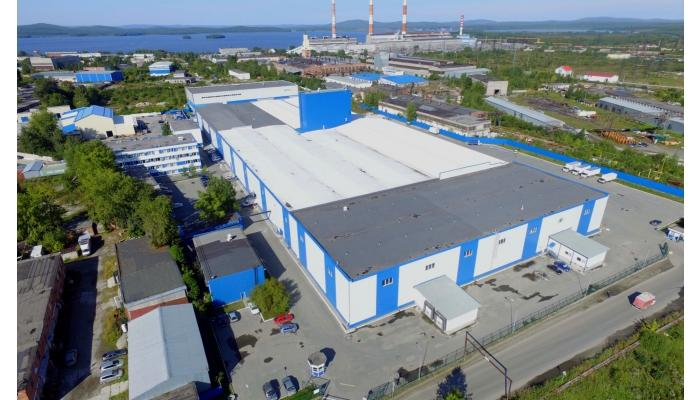
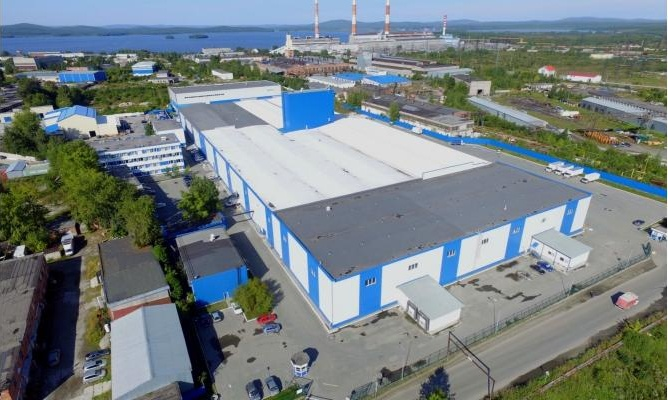
правки клиента: 7 слайдов по обратной связи
- слайд 2 (хронология): текст влево, силуэт в красном вправо
- слайд 3 (в цифрах): убран фон с фото irina-red-mic через rembg
- слайд 4 (экспертиза): фото 660→500px, текст получил больше места
- слайд 5 (компания): обрезаны белые боковые бордюры warehouse-aerial
- слайд 6 (треки): карточки 01+02 горизонтальные без фото; 03+04 без изменений
- слайд 9 (темы): убрано фото Ирины, текст на весь слайд
- слайд 12 (контакты): фото → irina-folder-profile, убран логотип-кнопка, телефон белый

diff --git a/mediakit.html b/mediakit.html
@@ -235,21 +235,7 @@ ul.w li::before{border-left-color:#fff}
 
 <!-- ═════════ 2 · ХРОНОЛОГИЯ ═════════ -->
 <div class="slide-frame"><div class="slide bg-l1" style="flex-direction:row">
-  <div style="position:relative;width:796px;flex-shrink:0;margin:64px 0 64px 64px">
-    <div class="photo" style="position:absolute;inset:0;border-radius:48px">
-      <img src="photos/irina-portrait-main.jpg" style="object-position:center 5%" alt="">
-    </div>
-    <div style="position:absolute;left:0;right:0;bottom:0;height:520px;border-radius:0 0 48px 48px;
-                background:linear-gradient(to top,var(--navy) 42%,rgba(19,35,61,0))"></div>
-    <div style="position:absolute;left:64px;right:40px;bottom:64px">
-      <div style="font-family:'Montserrat',sans-serif;font-weight:800;font-size:70px;line-height:1;color:#fff">Ирина<br>Лешукова</div>
-      <div style="font-size:30px;line-height:1.3;color:rgba(255,255,255,.85);margin-top:24px">
-        Исполнительный директор ТЛЦ «Северный»<br>Общественный деятель · Меценат
-      </div>
-    </div>
-  </div>
-
-  <div style="flex:1;min-width:0;display:flex;flex-direction:column;justify-content:center;padding:80px 110px 80px 80px">
+  <div style="flex:1;min-width:0;display:flex;flex-direction:column;justify-content:center;padding:80px 80px 80px 110px">
     <div class="h2" style="margin-bottom:56px">Хронология<br>профессиональной карьеры:</div>
     <ul class="tri" style="font-size:32px;display:flex;flex-direction:column;gap:36px">
       <li><strong>Исполнительный директор ТЛЦ «Северный»</strong> — мультитемпературный склад класса «А», первый в УрФО</li>
@@ -258,6 +244,9 @@ ul.w li::before{border-left-color:#fff}
       <li><strong>Спикер</strong> — ИННОПРОМ, СОЦИО Форум, 100+ TechnoBuild, форумы по социальной ответственности бизнеса</li>
       <li><strong>Награды</strong> — благодарственные письма от Губернатора Паслера, Главы ГО Среднеуральск, в/ч 34081 и 15+ иных структур</li>
     </ul>
+  </div>
+  <div style="width:700px;flex-shrink:0;position:relative;overflow:hidden">
+    <img src="photos/irina-red-mic-cutout.png" style="position:absolute;bottom:0;right:-10px;height:1080px;width:auto" alt="">
   </div>
 </div></div>
 
@@ -278,15 +267,15 @@ ul.w li::before{border-left-color:#fff}
       <div><div class="big-n">15+</div><div class="stat-lbl">наград и благодарственных писем</div></div>
     </div>
   </div>
-  <div class="photo" style="width:560px;flex-shrink:0;border-radius:48px;margin:64px 64px 64px 0">
-    <img src="photos/irina-red-mic.jpg" style="object-position:center 10%" alt="">
+  <div style="width:580px;flex-shrink:0;position:relative;overflow:hidden">
+    <img src="photos/irina-red-mic-cutout.png" style="position:absolute;bottom:0;right:-40px;height:1060px;width:auto" alt="">
   </div>
 </div></div>
 
 <!-- ═════════ 4 · ЭКСПЕРТИЗА ═════════ -->
 <div class="slide-frame"><div class="slide bg-l2">
-  <!-- Правая колонка: 2 фото 660×440, вертикально по центру слайда, right:64px -->
-  <div style="position:absolute;right:64px;top:88px;width:660px;display:flex;flex-direction:column;gap:24px">
+  <!-- Правая колонка: 2 фото 500×440, right:64px -->
+  <div style="position:absolute;right:64px;top:88px;width:500px;display:flex;flex-direction:column;gap:24px">
     <div style="height:440px;border-radius:40px;overflow:hidden">
       <img src="photos/innoprom-tribune.jpg" style="width:100%;height:100%;object-fit:cover;object-position:30% 30%" alt="">
     </div>
@@ -294,8 +283,8 @@ ul.w li::before{border-left-color:#fff}
       <img src="photos/socio-close.jpg" style="width:100%;height:100%;object-fit:cover;object-position:65% 25%" alt="">
     </div>
   </div>
-  <!-- Левая колонка: текст, left:124px до 64px от фото (padding-right:788px) -->
-  <div class="pad" style="padding-right:788px">
+  <!-- Левая колонка: текст, больше места -->
+  <div class="pad" style="padding-right:628px">
     <div class="h1">Экспертиза</div>
     <div style="flex:1;display:flex;flex-direction:column;justify-content:center;gap:40px;min-height:0">
       <div>
@@ -353,39 +342,36 @@ ul.w li::before{border-left-color:#fff}
 <div class="slide-frame"><div class="slide bg-l3">
   <div class="pad" style="padding-right:96px">
     <div class="h1" style="margin-bottom:44px">Социальные треки<br><span class="g">в компании</span></div>
-    <div style="flex:1;display:grid;grid-template-columns:1fr 1fr 1fr 1fr;gap:24px;min-height:0">
+    <div style="flex:1;display:flex;gap:24px;min-height:0">
 
-      <div class="tcard">
-        <div class="tcard-photo">
-          <img src="photos/socio-duo.jpg" style="object-position:center 35%" alt="">
+      <!-- Левый блок: две горизонтальные карточки без фото -->
+      <div style="flex:1;display:flex;flex-direction:column;gap:24px">
+        <div class="tcard" style="flex:1">
+          <div class="tcard-body" style="margin-top:0;border-radius:40px;display:flex;flex-direction:column;justify-content:center">
+            <div class="label" style="margin-bottom:14px">01 · Рождаемость</div>
+            <div class="h3" style="margin-bottom:18px">Поддержка в декрете</div>
+            <ul class="tri">
+              <li>Выплаты от компании все 3 года</li>
+              <li>По стажу, зарплате и заслугам</li>
+              <li>Независимо от государственных выплат</li>
+            </ul>
+          </div>
         </div>
-        <div class="tcard-body">
-          <div class="label">01 · Рождаемость</div>
-          <div class="h3">Поддержка в декрете</div>
-          <ul class="tri">
-            <li>Выплаты от компании все 3 года</li>
-            <li>По стажу, зарплате и заслугам</li>
-            <li>Независимо от государственных выплат</li>
-          </ul>
+        <div class="tcard" style="flex:1">
+          <div class="tcard-body" style="margin-top:0;border-radius:40px;display:flex;flex-direction:column;justify-content:center">
+            <div class="label" style="margin-bottom:14px">02 · Здоровье</div>
+            <div class="h3" style="margin-bottom:18px">Медстрахование в декрете</div>
+            <ul class="tri">
+              <li>Расширенный пакет: УЗИ и гинекология</li>
+              <li>На весь срок декрета</li>
+              <li>Матери в декрете не теряют медполис</li>
+            </ul>
+          </div>
         </div>
       </div>
 
-      <div class="tcard">
-        <div class="tcard-photo">
-          <img src="photos/irina-red-mic.jpg" style="object-fit:cover;object-position:50% 0% !important" alt="">
-        </div>
-        <div class="tcard-body">
-          <div class="label">02 · Здоровье</div>
-          <div class="h3">Медстрахование в декрете</div>
-          <ul class="tri">
-            <li>Расширенный пакет: УЗИ и гинекология</li>
-            <li>На весь срок декрета</li>
-            <li>Матери в декрете не теряют медполис</li>
-          </ul>
-        </div>
-      </div>
-
-      <div class="tcard">
+      <!-- Карточка 03: ЗОЖ (с фото, без изменений) -->
+      <div class="tcard" style="flex:1">
         <div class="tcard-photo">
           <img src="photos/pingpong-1.jpg" style="object-position:center 40%" alt="">
         </div>
@@ -400,7 +386,8 @@ ul.w li::before{border-left-color:#fff}
         </div>
       </div>
 
-      <div class="tcard">
+      <!-- Карточка 04: Спорт (с фото, без изменений) -->
+      <div class="tcard" style="flex:1">
         <div class="tcard-photo">
           <img src="photos/yoga-1.jpg" style="object-position:center 30%" alt="">
         </div>
@@ -542,8 +529,7 @@ ul.w li::before{border-left-color:#fff}
 
 <!-- ═════════ 9 · ТЕМЫ: БИЗНЕС ═════════ -->
 <div class="slide-frame"><div class="slide bg-dark is-dark">
-  <!-- Текст слева, фото absolute справа -->
-  <div class="pad" style="flex:1;padding-right:640px">
+  <div class="pad" style="flex:1">
     <div class="h1 h1-alt">Темы<br><span class="g">выступлений</span></div>
     <div class="chip" style="align-self:flex-start;margin-bottom:56px">Бизнес, логистика и коммерческая недвижимость</div>
     <div style="display:grid;grid-template-columns:1fr 1fr;gap:0 64px">
@@ -560,10 +546,6 @@ ul.w li::before{border-left-color:#fff}
         <li><strong>Социально ответственный бизнес:</strong> от экономики к служению</li>
       </ul>
     </div>
-  </div>
-  <!-- Фото: 530×990 → кадр 506×936, right:64px top:72px -->
-  <div style="position:absolute;right:64px;top:72px;width:506px;height:936px;border-radius:48px;overflow:hidden">
-    <img src="photos/irina-folder-profile.jpg" style="width:100%;height:100%;object-fit:cover;object-position:center top;display:block" alt="">
   </div>
 </div></div>
 
@@ -648,8 +630,7 @@ ul.w li::before{border-left-color:#fff}
 
   <!-- Кнопки: ряд 1 -->
   <div style="position:absolute;left:114px;top:760px;display:flex;gap:20px;align-items:center">
-    <div class="pill" style="border-radius:28px">+7 982 753-55-25</div>
-    <div class="logo-pill"><img src="photos/logo-severny-clean.png" alt="ТЛЦ «Северный»"></div>
+    <div class="pill" style="border-radius:28px;color:#fff">+7 982 753-55-25</div>
   </div>
 
   <!-- Кнопки: ряд 2 -->
@@ -660,7 +641,7 @@ ul.w li::before{border-left-color:#fff}
 
   <!-- Правая часть: фото от x=1180 до правого края -->
   <div style="position:absolute;left:1180px;top:0;width:740px;height:1080px;overflow:hidden;border-radius:48px 0 0 48px">
-    <img src="photos/irina-portrait-main.jpg" style="width:100%;height:100%;object-fit:cover;object-position:center 12%;display:block" alt="">
+    <img src="photos/irina-folder-profile.jpg" style="width:100%;height:100%;object-fit:cover;object-position:center top;display:block" alt="">
     <!-- Градиент снизу -->
     <div style="position:absolute;left:0;right:0;bottom:0;height:480px;background:linear-gradient(to top,rgba(19,35,61,.92) 0%,rgba(19,35,61,0) 45%)"></div>
     <!-- Имя и должность -->
